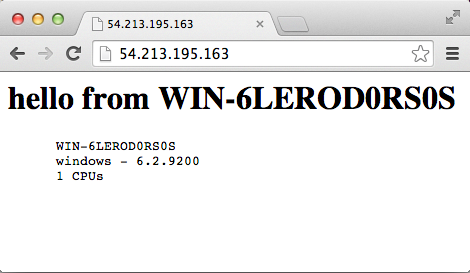
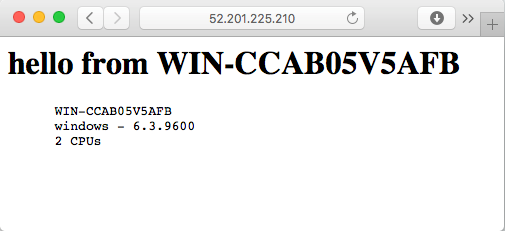
Update bootstrap & update lessons

Changed region(s): [[0.0, 0.0303, 1.0, 1.0], [0.0894, 0.4545, 0.4468, 0.6667]]

diff --git a/source/manage-a-node/windows/update-your-nodes-configuration/3/_index.md b/source/manage-a-node/windows/update-your-nodes-configuration/3/_index.md
@@ -4,9 +4,38 @@ Run `knife winrm` to run your cookbook on your node. Replace <code class="placeh
 
 ```bash
 # ~/learn-chef
-$ knife winrm ADDRESS chef-client --manual-list --winrm-user USER --winrm-password 'PASSWORD' --winrm-transport ssl --winrm-ssl-verify-mode verify_none 
+$ knife winrm ADDRESS chef-client --manual-list --winrm-user USER --winrm-password 'PASSWORD'
+```
+
+Here's an example.
+
+```bash
+# ~/learn-chef
+$ knife winrm 52.201.225.210 chef-client --manual-list --winrm-user Administrator --winrm-password 'HhrQCP&e*Ey'
+52.201.225.210 [2016-05-03T16:40:23+00:00] INFO: *** Chef 12.9.38 ***
+52.201.225.210 [2016-05-03T16:40:23+00:00] INFO: Platform: x64-mingw32
+52.201.225.210 [2016-05-03T16:40:23+00:00] INFO: Chef-client pid: 3528
+52.201.225.210 [2016-05-03T16:40:30+00:00] INFO: Run List is [recipe[learn_chef_iis]]
+52.201.225.210 [2016-05-03T16:40:30+00:00] INFO: Run List expands to [learn_chef_iis]
+52.201.225.210 [2016-05-03T16:40:30+00:00] INFO: Starting Chef Run for node1
+52.201.225.210 [2016-05-03T16:40:30+00:00] INFO: Running start handlers
+52.201.225.210 [2016-05-03T16:40:30+00:00] INFO: Start handlers complete.
+52.201.225.210 [2016-05-03T16:40:30+00:00] INFO: Loading cookbooks [learn_chef_iis@0.2.1]
+52.201.225.210 [2016-05-03T16:40:30+00:00] INFO: Storing updated cookbooks/learn_chef_iis/templates/default/Default.htm.erb in the cache.
+52.201.225.210 [2016-05-03T16:40:30+00:00] INFO: Processing powershell_script[Install IIS] action run (learn_chef_iis::default line 9)
+52.201.225.210 [2016-05-03T16:40:30+00:00] INFO: Processing powershell_script[Guard resource] action run (dynamically defined)
+52.201.225.210 [2016-05-03T16:40:31+00:00] INFO: powershell_script[Guard resource] ran successfully
+52.201.225.210 [2016-05-03T16:40:31+00:00] INFO: Processing windows_service[w3svc] action enable (learn_chef_iis::default line 15)
+52.201.225.210 [2016-05-03T16:40:31+00:00] INFO: Processing windows_service[w3svc] action start (learn_chef_iis::default line 15)
+52.201.225.210 [2016-05-03T16:40:31+00:00] INFO: Processing template[c:\inetpub\wwwroot\Default.htm] action create (learn_chef_iis::default line 19)
+52.201.225.210 [2016-05-03T16:40:31+00:00] INFO: template[c:\inetpub\wwwroot\Default.htm] backed up to c:/chef/backup\inetpub\wwwroot\Default.htm.chef-20160503164031.846635
+52.201.225.210 [2016-05-03T16:40:31+00:00] INFO: template[c:\inetpub\wwwroot\Default.htm] updated file contents c:\inetpub\wwwroot\Default.htm
+52.201.225.210 [2016-05-03T16:40:31+00:00] INFO: Chef Run complete in 1.765626 seconds
+52.201.225.210 [2016-05-03T16:40:31+00:00] INFO: Running report handlers
+52.201.225.210 [2016-05-03T16:40:31+00:00] INFO: Report handlers complete
+52.201.225.210 [2016-05-03T16:40:31+00:00] INFO: Sending resource update report (run-id: 709186a8-a9b3-4fea-84b1-a625bf1767d9)
 ```
 
 The `knife winrm` command takes the command to run on your node. Here we specify `chef-client`, which causes the node to check-in with the Chef server to obtain the latest cookbooks and then apply them.
 
-[COMMENT] As before, in production we recommend that you replace the  `--winrm-ssl-verify-mode` with the `--ca-trust-file` option to supply the certificate that validates the identity of your node.<br><br>In production, you might instead configure `chef-client` to run automatically on a regular basis or in response to some event or trigger, such as when code is checked in to your repository.
+[COMMENT] In practice, you might instead configure `chef-client` to run automatically on a regular basis or in response to some event or trigger, such as when code is checked in to your repository.
